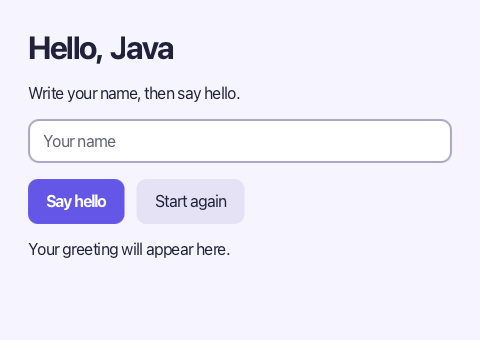
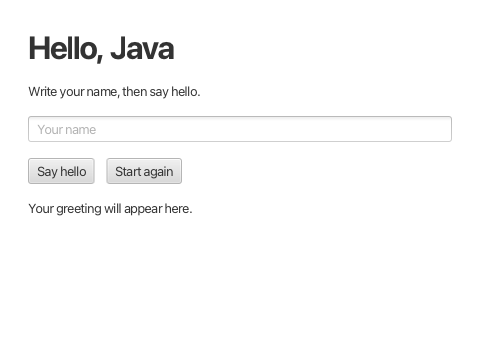
Align example preview and guides with current browser and repository flow

diff --git a/student-template/README.md b/student-template/README.md
@@ -9,7 +9,7 @@ uses three continuing projects: Greeting (0–2), Study (3–7) and Game (8–12
 Choose **Start tutorial** from Zero’s welcome or **…** menu to open each matching tutorial
 template once. On GitHub, use **Use this template → Create a new repository**
 to create your own repository. Copy its **Code → HTTPS** URL, return to Zero and
-choose **Clone repository** in the sidebar. Paste your URL, choose a destination
+choose **Clone repository** in the repository menu. Paste your URL, choose a destination
 outside any other Git repository, then choose **Open in New Window** when VS Code
 offers to open the clone. Keep that clone and add your own code across its lessons. Each template contains only empty Main
 and build/framework setup. Tutorial repositories use New branch, Run App,
@@ -295,7 +295,7 @@ other platforms and school environments still need trials.
 For a new repository, Commit & push once on **main** to save the starter.
 Then use this individual flow for each improvement:
 
-1. Click **New branch** beside main, name your branch (for example `quiz-feedback`)
+1. Click **New branch** in the repository menu, name your branch (for example `quiz-feedback`)
    and review before creating it. Commit & push pending edits first. Main is updated
    from GitHub when it can be advanced without combining separate histories.
 2. Edit and Run App. **Commit & push** creates a commit when needed and pushes your current branch;
@@ -327,7 +327,7 @@ private. Zero does not submit assignments or change Pika grades.
 
 Use your own original project with Git **2.31+** and your own GitHub account.
 **Run App** and test it, then merge and push the completed version on **main**.
-Choose **Publish app** in Zero’s sidebar. The first publish reviews the public Pages
+Choose **Publish app** in Zero’s repository menu. The first publish reviews the public Pages
 destination, prepares publishing files, and uses the reviewed push flow.
 If VS Code requests workflow permission, use the same GitHub account as Zero.
 Confirm the pushed version when asked. The app and included assets will be

diff --git a/docs/GETTING-STARTED.md b/docs/GETTING-STARTED.md
@@ -271,7 +271,7 @@ and files before **Commit & push**. This is the starting version.
 
 For each improvement:
 
-1. Click **New branch** beside `main`. Give it a short name such as `quiz-feedback`
+1. Click **New branch** in the repository menu. Give it a short name such as `quiz-feedback`
    using lowercase letters, numbers and dashes. Review before creating the branch.
    Commit & push pending edits first. Zero updates main from GitHub when it can do so
    without combining separate histories, then creates the branch.
@@ -310,7 +310,7 @@ does not push code, establish that the remote is current or submit in Pika.
 
 In your own project, **Run App** and test the version you want other people to
 play. Merge your change and push it on **main**, then choose **Publish app**
-in Zero’s sidebar. Sign in and connect your own repository to enable
+in Zero’s repository menu. Sign in and connect your own repository to enable
 it. Publishing is a separate explicit action from pushing your source.
 
 The first publish reviews the public destination and prepares publishing files.

diff --git a/docs/PRODUCT.md b/docs/PRODUCT.md
@@ -60,8 +60,9 @@ dividers. Generic setup/continuation cards are omitted; specific component or
 media notes stay muted and unboxed. Previous lesson prose is omitted in favor of the sidebar and Next lesson action. `/hub` is ZeroHub: discover separate editable games and reusable
 libraries, inspect exact versions, source and verified GitHub contributor identity.
 `/hub/share` explains native Zero Share commands and official GitHub forms.
-Content pages use the navigation section name (Tutorials, Docs or ZeroHub)
-as the large main heading and the page topic beneath it as a muted subtitle.
+Tutorials show the current project name (Greeting App, Study Quiz or Coin Game)
+as the main heading and the lesson title below it. Docs and ZeroHub retain their
+section heading and muted topic subtitle.
 Purple eyebrow labels and back controls are removed; top navigation, reader
 sidebars and Next lesson remain available. Hub browsing/downloads are public;
 its Sign in to GitHub and Create GitHub account buttons open GitHub's official

diff --git a/student-template/lessons/README.md b/student-template/lessons/README.md
@@ -27,7 +27,7 @@ At lessons **0, 3 and 8**, choose **Start tutorial** from Zero’s welcome or **
 the matching project, or use **Use template** on the tutorial page. On GitHub,
 choose **Use this template → Create a new repository** in **your own account**.
 Copy **your repository**’s **Code → HTTPS** URL, return to Zero and choose
-**Clone repository** in the sidebar. Paste your URL, choose a destination outside
+**Clone repository** in the repository menu. Paste your URL, choose a destination outside
 any other Git repository, then choose **Open in New Window** when VS Code offers
 to open the clone.
 Do not clone Zero's shared template directly. There is no tutorial project ZIP

diff --git a/docs/COURSE-PROJECT.md b/docs/COURSE-PROJECT.md
@@ -22,7 +22,7 @@ and check acceptance/access. Publishing a public game remains optional.
    your personal account as the owner, give the project your own name and follow
    your teacher's visibility instructions. Create the repository.
 2. In **your new repository**, choose **Code → HTTPS** and copy its URL.
-   Return to Zero and choose **Clone repository** in the sidebar. Paste your
+   Return to Zero and choose **Clone repository** in the repository menu. Paste your
    URL and choose a destination outside any other Git repository. When VS Code
    offers to open the clone, choose **Open in New Window**.
 

diff --git a/docs/RELEASE-0.5.18.md b/docs/RELEASE-0.5.18.md
@@ -14,8 +14,7 @@ Published17 downloads, installer, update feed and fallback remain unchanged.
 5. Tutorials beside ordinary Main.java → edit → Run App. Open in browser opens
    the current lesson or validated running app. Stop ends its browser runtime.
 6. Repository menu → New branch; edit/Run → Commit & push → Merge to main.
-   Publishing remains an explicit action; verify the final menu placement against
-   the owner's newest sidebar update before sealing the candidate.
+   Repository menu → Publish app explicitly publishes the validated local build.
 
 ## Integration and acceptance
 

diff --git a/release/START-HERE.md b/release/START-HERE.md
@@ -126,7 +126,7 @@ separately in Pika.
 ## Publish a playable app
 
 In your own project, Run App and test the version you want to publish. Finish and
-upload it on **main**, then choose **Publish app** in Zero’s **GitHub** section.
+upload it on **main**, then choose **Publish app** in Zero’s **repository menu**.
 Use the same GitHub account in Zero and any browser authorization. The first
 publish reviews the public destination, asks for GitHub workflow permission when
 needed, and uses the normal reviewed upload for its publishing files. The app and
